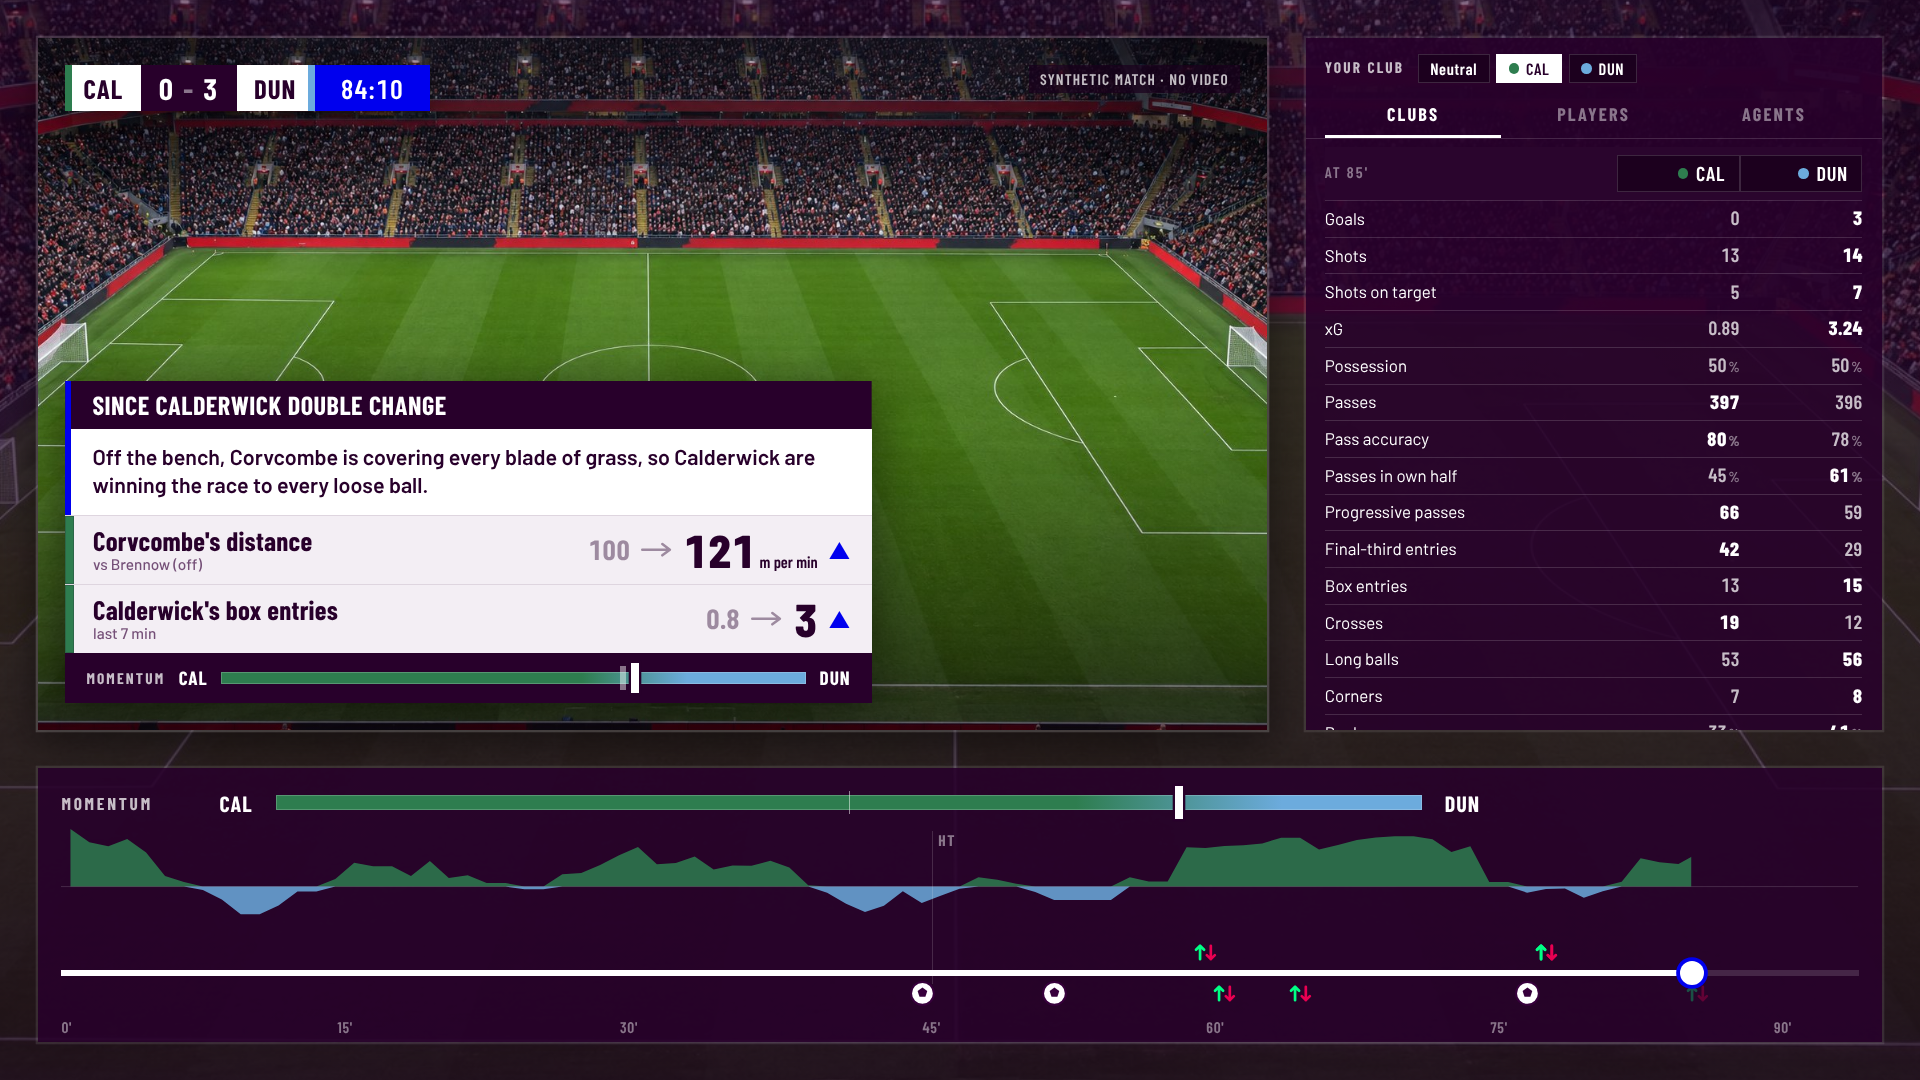
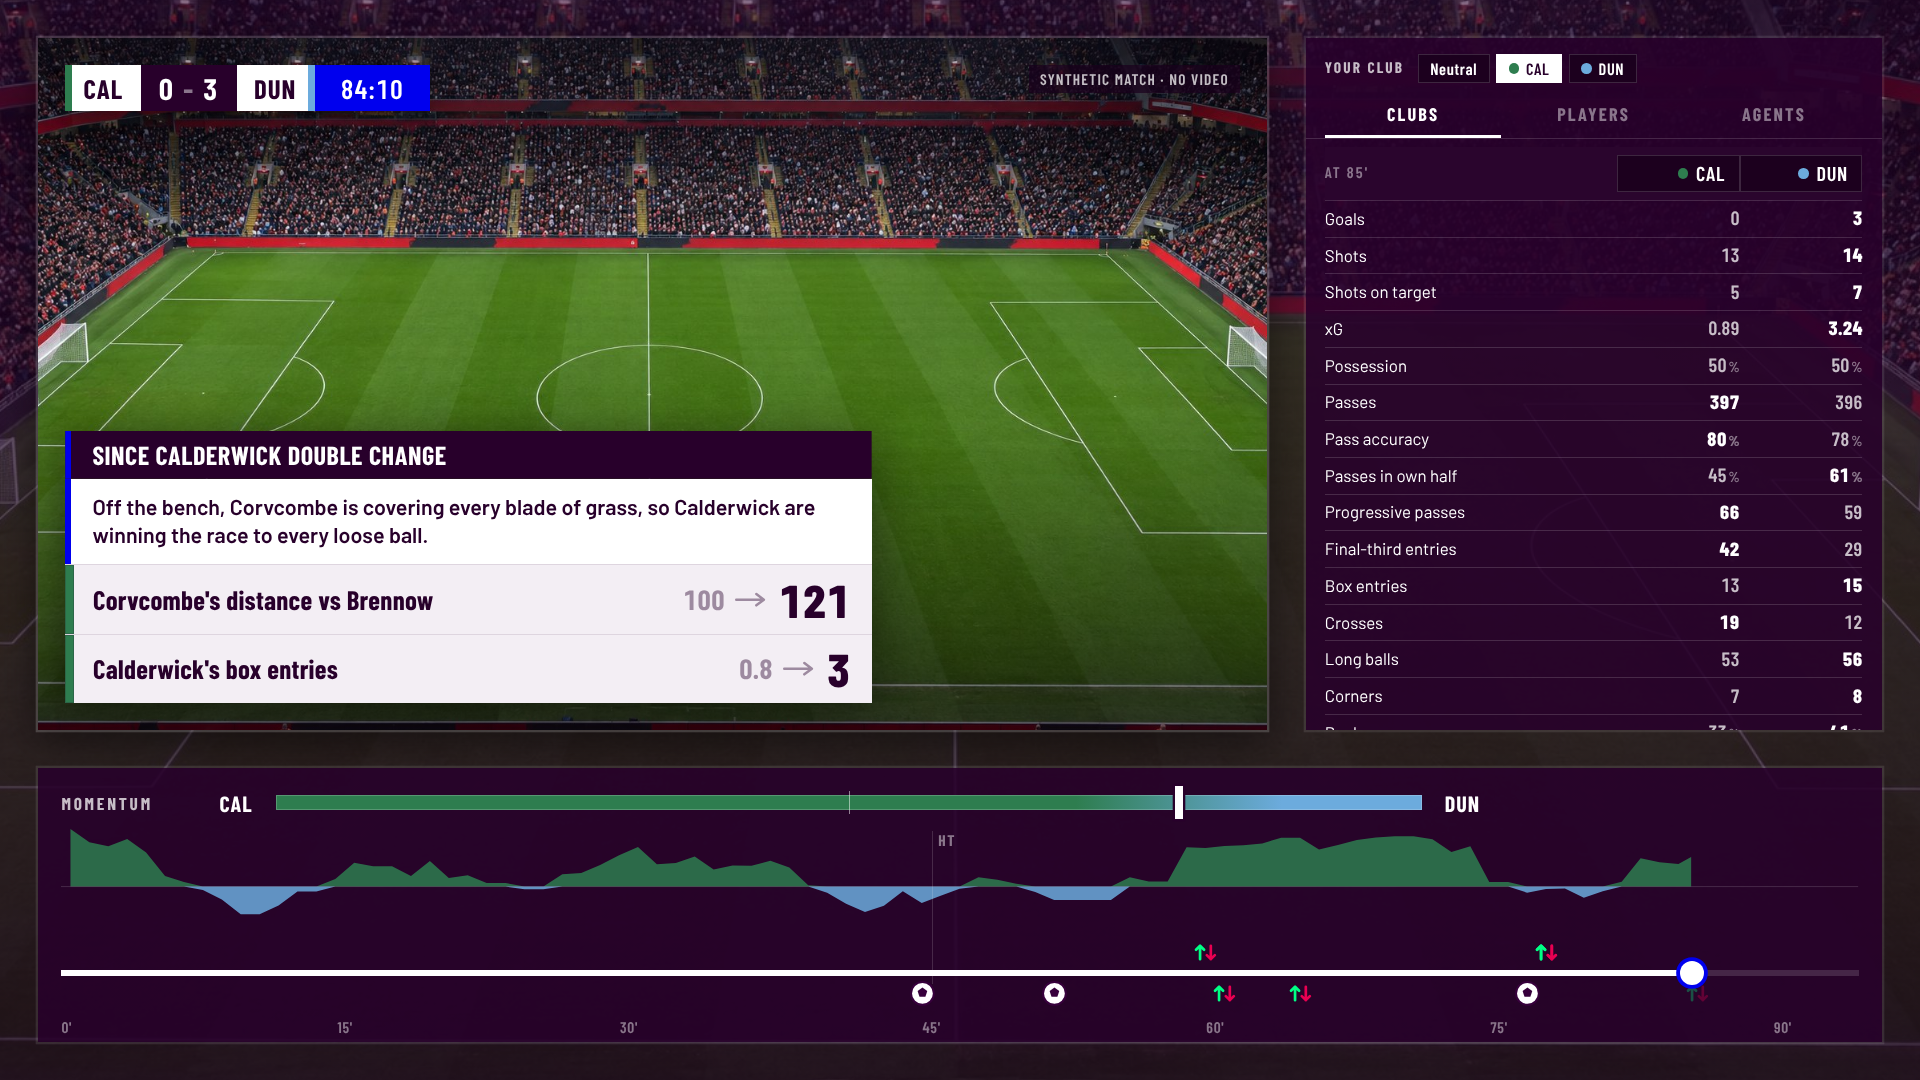
Strip the cards back: one label, before -> now, nothing else
Drop the up/down symbols (the two numbers show the direction), the grey
sub-lines, the unit words and the card's momentum bar (the bar along the
bottom of the screen already shows it). A substitute's row reads
"Corvcombe's distance vs Brennow". Counts before the anchor show as whole
numbers next to a whole number now. The analysis card's header is one phrase,
"How Dunmoor win it back", with the club chip.

Claude-Session: https://claude.ai/code/session_01EbrDZTyF51H69p2HEiKb25

Changed region(s): [[0.0312, 0.3361, 0.4688, 0.6722]]

diff --git a/web/app.js b/web/app.js
@@ -239,29 +239,30 @@
   // "Progressive passes" -> "progressive passes", but "xG" stays as it is
   const lower = (label) => (/^[A-Z][a-z]/.test(label) ? label[0].toLowerCase() + label.slice(1) : label);
 
-  // One line to read, then one number to the next: "Brackenford's progressive passes  2 -> 5 ▲".
-  // The colour chip says whose stat it is; the faded number is before, the solid one is now.
+  // A count before the anchor is a rate scaled to the window (6.9 in 6 minutes): shown against a
+  // whole number now, it reads as a whole number too, unless it is under 1
+  function before(s) {
+    const n = Number(s.usual);
+    if (!/^\d+$/.test(s.value) || !Number.isFinite(n) || n < 1) return s.usual;
+    return String(Math.round(n));
+  }
+
+  // One line to read, then one number to the next: "Brackenford's progressive passes  2 -> 5".
+  // The colour chip says whose stat it is; the faded number is before, the solid one is now, so
+  // the numbers show the direction on their own. A substitute is against the player he replaced.
   function statRow(s) {
     const team = teamById(s.team);
     const side = team === bundle.teams[0] ? "var(--home)" : "var(--away)";
-    const title = `${s.player || team.short_name}'s ${lower(s.label)}`;
-    const sub = [s.window ? `last ${s.window.replace("in ", "")}` : "", s.usual_label !== "before" ? `vs ${s.usual_label}` : ""]
-      .filter(Boolean)
-      .join(" · ");
-    const unit = s.unit ? `<span class="stat-unit">${s.unit}</span>` : "";
-    const dir = s.rise ? "up" : "down";
+    const vs = s.usual_label && s.usual_label !== "before" ? ` vs ${s.usual_label.replace(/ \(off\)$/, "")}` : "";
+    const title = `${s.player || team.short_name}'s ${lower(s.label)}${vs}`;
     return `
       <div class="stat">
         <span class="stat-strip" style="background:${side}"></span>
-        <span class="stat-text">
-          <div class="stat-label">${esc(title)}</div>
-          ${sub ? `<div class="stat-sub">${esc(sub)}</div>` : ""}
-        </span>
+        <span class="stat-label">${esc(title)}</span>
         <span class="stat-nums" aria-label="${esc(`${s.usual} to ${s.value}`)}">
-          <span class="stat-old">${s.usual}</span>
+          <span class="stat-old">${before(s)}</span>
           <svg class="stat-to" viewBox="0 0 26 12" aria-hidden="true"><path d="M1 6h21M17 1.5 23 6l-6 4.5" fill="none" stroke="currentColor" stroke-width="2" stroke-linecap="round" stroke-linejoin="round"/></svg>
-          <span class="stat-value">${s.value}${unit}</span>
-          <span class="stat-dir ${dir}">${s.rise ? "▲" : "▼"}</span>
+          <span class="stat-value">${s.value}</span>
         </span>
       </div>`;
   }
@@ -273,30 +274,17 @@
 
   function showCard(c) {
     const el = $("card");
-    const [home, away] = bundle.teams;
     el.className = `card kind-${c.kind}`;
     el.innerHTML = `
       <div class="card-head">
         <div class="card-anchor">${c.anchor}</div>
       </div>
       <div class="card-text" id="cardText">${esc(cardText(c))}</div>
-      <div class="card-body">${c.stats.map(statRow).join("")}</div>
-      <div class="card-foot">
-        <span class="cf-label">Momentum</span>
-        <span class="cf-code">${home.code}</span>
-        <div class="grad-bar cf-bar" style="--m:${c.momentum.before}%;--was:${c.momentum.before}%">
-          <div class="gb-was"></div><div class="gb-now"></div>
-        </div>
-        <span class="cf-code">${away.code}</span>
-      </div>`;
+      <div class="card-body">${c.stats.map(statRow).join("")}</div>`;
     el.hidden = false;
     void el.offsetWidth;
     el.classList.add("on");
     phase = "stats";
-    // after the entry, move the bar from where momentum was to where it is; a faded line stays at "was"
-    requestAnimationFrame(() =>
-      requestAnimationFrame(() => el.querySelector(".cf-bar").style.setProperty("--m", `${c.momentum.now}%`)),
-    );
     cardUntil = performance.now() + CARD_SECONDS * 1000;
     hoodCard = c;
     if (tab === "agents") renderPanel();
@@ -325,15 +313,13 @@
     const el = $("card");
     const team = teamById(a.team);
     const side = team === bundle.teams[0] ? "var(--home)" : "var(--away)";
-    const ask = a.mode === "fix" ? "How to win it back" : "How to keep it going";
+    const ask = a.mode === "fix" ? `How ${team.short_name} win it back` : `How ${team.short_name} keep it going`;
     el.className = "card analysis";
     el.innerHTML = `
       <div class="card-head">
-        <div class="card-anchor"><span class="an-mark">MatchLens analysis</span></div>
+        <div class="card-anchor"><span class="an-chip" style="background:${side}"></span>${esc(ask)}<span class="an-mark">MatchLens analysis</span></div>
       </div>
-      <div class="an-club"><span class="an-chip" style="background:${side}"></span>${esc(team.short_name)}<span class="an-ask">${ask}</span></div>
       <div class="card-text" id="cardText">${esc(a.line)}</div>
-      <div class="an-why">The number behind it</div>
       <div class="card-body">${statRow(a.stat)}</div>`;
     el.hidden = false;
     void el.offsetWidth;

diff --git a/web/style.css b/web/style.css
@@ -234,29 +234,13 @@ body { display: grid; place-items: center; overflow: hidden; }
   border-top: 1px solid rgba(40, 0, 43, 0.1);
 }
 .stat-strip { align-self: stretch; box-shadow: inset 0 0 0 1px rgba(40, 0, 43, 0.18); }
-.stat-text { line-height: 1.15; min-width: 0; }
 /* one line, read in one go: "Brackenford's progressive passes" */
-.stat-label { font-family: var(--display); font-weight: 700; font-size: 1.4cqw; letter-spacing: 0.01em; }
-.stat-sub { font-size: 0.8cqw; color: var(--primary-ink); opacity: 0.75; font-weight: 500; }
-/* before (small, faded) -> now (big, solid) and which way it went */
+.stat-label { min-width: 0; font-family: var(--display); font-weight: 700; font-size: 1.4cqw; line-height: 1.15; letter-spacing: 0.01em; }
+/* before (small, faded) -> now (big, solid): the numbers show which way it went */
 .stat-nums { display: flex; align-items: center; gap: 0.55cqw; font-family: var(--display); font-variant-numeric: tabular-nums; line-height: 1; }
 .stat-old { font-weight: 700; font-size: 1.45cqw; color: var(--primary); opacity: 0.42; }
 .stat-to { width: 1.7cqw; height: 0.8cqw; color: var(--primary); opacity: 0.42; }
 .stat-value { font-weight: 800; font-size: 2.4cqw; color: var(--primary); }
-.stat-unit { font-size: 0.85cqw; font-weight: 600; margin-left: 0.2cqw; }
-.stat-dir { font-size: 1.15cqw; color: var(--accent); }
-
-.card-foot {
-  display: grid;
-  grid-template-columns: auto auto 1fr auto;
-  align-items: center;
-  gap: 0.7cqw;
-  padding: 0.7cqw 1.1cqw;
-  background: var(--primary);
-}
-.cf-label { font-family: var(--display); font-weight: 700; font-size: 0.8cqw; letter-spacing: 0.14em; text-transform: uppercase; color: var(--mist); }
-.cf-code { font-family: var(--display); font-weight: 700; font-size: 1cqw; letter-spacing: 0.05em; }
-.cf-bar { height: 0.65cqw; transition: --m 1.4s var(--ease) 0.5s; }
 
 /* entry and exit */
 .card.on .card-head { animation: wipe 0.55s var(--ease) both; }
@@ -264,41 +248,13 @@ body { display: grid; place-items: center; overflow: hidden; }
 .card.on .stat { animation: rise 0.5s var(--ease) both; }
 .card.on .stat:nth-child(1) { animation-delay: 0.32s; }
 .card.on .stat:nth-child(2) { animation-delay: 0.44s; }
-.card.on .card-foot { animation: rise 0.5s var(--ease) 0.55s both; }
 .card.off { animation: out 0.45s var(--ease) both; }
 
 /* MatchLens analysis: the card that follows, on what a club could do about it */
-.card.analysis .card-anchor { border-left-color: var(--secondary); background: linear-gradient(90deg, var(--accent), var(--primary) 70%); }
-.an-mark { display: flex; align-items: center; gap: 0.6cqw; }
-.an-mark::before { content: ""; width: 0.75cqw; height: 0.75cqw; border-radius: 50%; background: var(--secondary); box-shadow: 0 0 0 0.25cqw rgba(255, 255, 255, 0.3); }
-.an-club {
-  display: flex;
-  align-items: center;
-  gap: 0.6cqw;
-  padding: 0.6cqw 1.1cqw 0;
-  background: var(--secondary);
-  color: var(--primary);
-  border-left: 0.35cqw solid var(--secondary);
-  font-family: var(--display);
-  font-weight: 700;
-  font-size: 1.3cqw;
-}
-.an-chip { width: 1cqw; height: 1cqw; box-shadow: inset 0 0 0 1px rgba(40, 0, 43, 0.2); }
-.an-ask { margin-left: auto; font-size: 0.85cqw; letter-spacing: 0.12em; text-transform: uppercase; color: var(--accent); }
-.card.analysis .card-text { border-left-color: var(--secondary); font-size: 1.3cqw; padding-top: 0.4cqw; }
-.an-why {
-  padding: 0.35cqw 1.1cqw;
-  background: #f3eef4;
-  color: var(--primary-ink);
-  font-family: var(--display);
-  font-weight: 700;
-  font-size: 0.75cqw;
-  letter-spacing: 0.14em;
-  text-transform: uppercase;
-}
-.card.analysis .card-body .stat { border-top: 0; }
-.card.on .an-club { animation: rise 0.5s var(--ease) 0.15s both; }
-.card.on .an-why { animation: rise 0.5s var(--ease) 0.3s both; }
+.card.analysis .card-anchor { gap: 0.7cqw; background: linear-gradient(90deg, var(--accent), var(--primary) 75%); }
+.an-chip { width: 1cqw; height: 1cqw; flex: none; box-shadow: 0 0 0 1px rgba(255, 255, 255, 0.5); }
+.an-mark { margin-left: auto; font-size: 0.75cqw; letter-spacing: 0.14em; color: var(--mist); }
+.card.analysis .card-text { font-size: 1.3cqw; }
 @keyframes wipe { from { clip-path: inset(0 100% 0 0); } to { clip-path: inset(0 0 0 0); } }
 @keyframes rise { from { opacity: 0; transform: translateY(0.8cqw); } to { opacity: 1; transform: none; } }
 @keyframes out { to { opacity: 0; transform: translateX(-2cqw); } }

diff --git a/docs/broadcast.md b/docs/broadcast.md
@@ -11,9 +11,8 @@ The screen in `web/` plays a match on a condensed clock. By default 1 match minu
   - **the cards**, as a lower third, which pop up when the Director puts one on screen. A card shows:
     - its anchor, such as "Since Dunmoor goal 25'" or "Since 63'";
     - one line saying what the numbers mean for the game, written for the viewer's club ([explainer.md](explainer.md));
-    - one or two numbers, each against the same team before the anchor. For a substitute, the comparison is with the player they replaced. Where it can, the card pairs two stats that explain each other, rather than showing a lone possession figure. Each number reads as one line and one path: a colour chip for the club, then "Brackenford's progressive passes", then the number before (small and faded), an arrow, the number now (big and solid) and ▲ or ▼;
-    - a momentum bar with both clubs' codes, a gradient from one club's colour to the other's, and a faded line where momentum was before the bar moves to now.
-  - **the MatchLens analysis**, which follows a card when it leaves: what a club could do about the momentum, the take fans argue about. The side that lost it gets "how to win it back" ("Dunmoor need to push the line back up and stop inviting Calderwick on"); the side that has it gets "how to keep it going". A fan of either club sees their own club's; a neutral sees the side that lost momentum. Under the line is the number behind it. Every idea is backed by a stat in the match ([agents.md](agents.md), step 5).
+    - one or two numbers, each against the same team before the anchor. For a substitute, the comparison is with the player they replaced. Where it can, the card pairs two stats that explain each other, rather than showing a lone possession figure. Each number reads as one line and one path: a colour chip for the club, then "Brackenford's progressive passes" (or "Corvcombe's distance vs Brennow" for a substitute), then the number before (small and faded), an arrow and the number now (big and solid). The numbers show which way it went, so there are no extra symbols, and the momentum bar along the bottom of the screen shows momentum, so the card doesn't repeat it.
+  - **the MatchLens analysis**, which follows a card when it leaves: what a club could do about the momentum, the take fans argue about. The side that lost it gets "How Dunmoor win it back" ("Dunmoor need to push the line back up and stop inviting Calderwick on"); the side that has it gets "How Calderwick keep it going". A fan of either club sees their own club's; a neutral sees the side that lost momentum. Under the line is the stat behind it. Every idea is backed by a stat in the match ([agents.md](agents.md), step 5).
 - **Stats panel** (right):
   - **Your club**: neutral or either side. The card sentence is written for that club's fans. The choice is remembered on this device.
   - **Clubs**: 24 stats for both sides at the current minute, the leader in bold. Tap a club to see its players.
